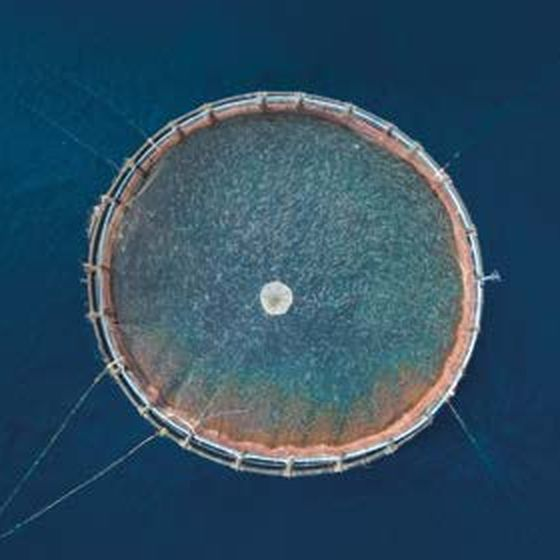
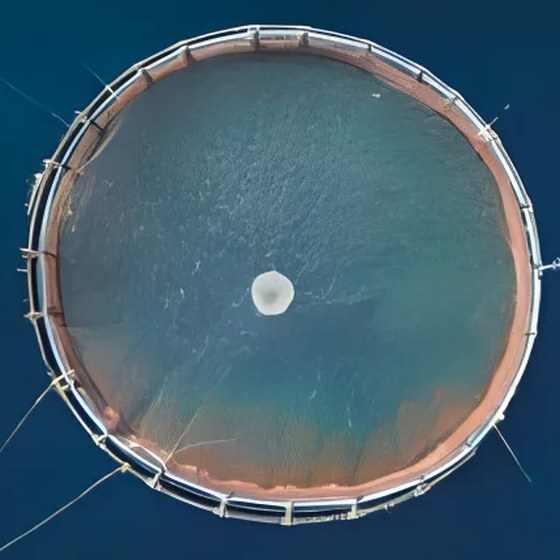
Operations: profile p.6-7 layout — feature timeline, lab photo with script note, deep-blue cycle section
Claude-Session: https://claude.ai/code/session_019i6iV7ZkPJvudKeM1UTkRP

diff --git a/profile-site/operations.html b/profile-site/operations.html
@@ -5,7 +5,7 @@
 <meta name="robots" content="noindex, nofollow">
 <title>Operations — Gulf Aquaculture</title><meta name="description" content="Where innovation meets simplicity: hatchery, nursery, live feed, biosecurity, laboratories and traceability.">
 <link rel="preconnect" href="https://fonts.googleapis.com"><link rel="preconnect" href="https://fonts.gstatic.com" crossorigin><link href="https://fonts.googleapis.com/css2?family=DM+Serif+Display&family=Poppins:wght@300;400;500;600&family=Caveat:wght@500;600&display=swap" rel="stylesheet">
-<link rel="stylesheet" href="assets/css/site.css?v=20261108k">
+<link rel="stylesheet" href="assets/css/site.css?v=20261108l">
 </head>
 <body>
 <header class="hdr"><div class="wrap"><a href="index.html" class="brand" aria-label="Gulf Aquaculture — home"><img src="assets/img/logo.png" alt="Gulf Aquaculture" width="640" height="150"></a>
@@ -15,20 +15,26 @@
 </div></header>
 <nav class="mnav" aria-label="Menu"><button class="x" type="button" aria-label="Close menu">×</button><a href="index.html"><span>00</span>Home</a><a href="about.html"><span>01</span>About</a><a href="operations.html"><span>02</span>Operations</a><a href="assets.html"><span>03</span>Assets</a><a href="species.html"><span>04</span>Species</a><a href="growth.html"><span>05</span>Growth</a><a href="people.html"><span>06</span>People</a><a href="contact.html"><span>07</span>Contact</a></nav>
 <main>
-<section class="opener paper"><span class="arc"></span><div class="wrap">
-  <div class="rv in"><span class="folio"><i></i>Our operations</span><h1>Where Innovation<br>Meets Simplicity</h1><p class="lead">We designed our facilities to do one thing well: raise healthy fish in sustainable, replicable systems.</p></div>
-  <div class="media rv in"><div class="img" style="background-image:url(assets/img/cages.jpg)" role="img" aria-label="Company Profile photo"></div><p class="note"><span>Good water quality isn't an output. It's a daily practice.</span></p></div>
-</div></section><section class="sec"><div class="wrap"><div class="feat rv"><div><svg viewBox="0 0 24 24"><path d="M4 20h16M6 20V9l6-5 6 5v11"/><path d="M9 20v-6h6v6"/></svg><h4>Hatchery &amp; Nursery</h4><p>Controlled environments for larvae and fry.</p></div><div><svg viewBox="0 0 24 24"><circle cx="8" cy="9" r="3"/><circle cx="16" cy="9" r="3"/><circle cx="12" cy="16" r="3"/></svg><h4>Live Feed Systems</h4><p>Rotifers, copepods, algae production.</p></div><div><svg viewBox="0 0 24 24"><path d="M12 3l8 3v6c0 5-3.5 8-8 9-4.5-1-8-4-8-9V6z"/></svg><h4>Biosecurity</h4><p>Closed-loop systems, advanced filtration, and strict protocols.</p></div><div><svg viewBox="0 0 24 24"><path d="M9 3h6M10 3v6l-5 9a2 2 0 0 0 1.7 3h10.6a2 2 0 0 0 1.7-3l-5-9V3"/></svg><h4>Laboratories</h4><p>Water quality and microbiology testing.</p></div><div><svg viewBox="0 0 24 24"><path d="M4 12h4l2-5 4 10 2-5h4"/></svg><h4>Traceability</h4><p>SFS Trace system ensures full lifecycle transparency.</p></div></div></div></section><section class="sec navy" id="cycle"><div class="wrap">
-  <div class="cols" style="margin-bottom:40px"><div class="rv"><span class="label" style="color:var(--amber)">From broodstock to distribution</span><h2 style="margin-top:12px">Every stage reflects a clear purpose — and a shared responsibility to the Gulf.</h2></div>
-  <p class="rv">Select a phase around the cage. Throughout, our laboratory teams track microbial health, monitor water quality, and ensure every fish can be traced from broodstock to harvest.</p></div>
-  <div class="ops"><div class="ring rv" id="ring"></div>
-    <div class="ph-card rv"><div id="phCard" aria-live="polite"></div><div class="ph-nav"><button type="button" id="phPrev" aria-label="Previous phase">←</button><button type="button" id="phNext" aria-label="Next phase">→</button></div></div></div>
+<section class="opx paper"><span class="arc opx-arc" aria-hidden="true"></span><div class="wrap opx-grid">
+ <div class="opx-left">
+  <h1 class="rv in">Where<br>Innovation<br>Meets Simplicity</h1>
+  <p class="opx-kicker rv in">Our operations</p>
+  <p class="lead rv in">We designed our facilities to do one thing well: raise healthy fish in sustainable, replicable systems.</p>
+  <figure class="opx-photo rv"><img src="assets/img/gulf-aquaculture-lab-technician.webp" width="1008" height="676" alt="Laboratory technician testing water samples" loading="lazy">
+   <p class="note opx-note"><span>Good water quality</span><br><span>isn’t an output. It’s a</span><br><span>daily practice.</span></p></figure>
+ </div>
+ <ol class="opx-feat"><li class="rv"><svg viewBox="0 0 24 24" aria-hidden="true"><circle cx="8" cy="15" r="3"/><circle cx="14" cy="15" r="3"/><circle cx="20" cy="15" r="2.6"/><circle cx="11" cy="10" r="3"/><circle cx="17" cy="10" r="3"/><circle cx="14" cy="5.5" r="2.6"/></svg><h3>Hatchery &amp; Nursery:</h3><p>Controlled environments for larvae and fry.</p></li><li class="rv"><svg viewBox="0 0 24 24" aria-hidden="true"><path d="M9 12c3-4 8-5 12-1-4 4-9 3-12 1z"/><path d="M21 11l2-3v7z"/><circle cx="4" cy="10" r="1.3"/><circle cx="6" cy="14" r="1"/><circle cx="3" cy="16" r=".8"/></svg><h3>Live Feed Systems:</h3><p>Rotifers, copepods, algae production.</p></li><li class="rv"><svg viewBox="0 0 24 24" aria-hidden="true"><path d="M12 3l8 3v6c0 5-3.5 8-8 9-4.5-1-8-4-8-9V6z"/></svg><h3>Biosecurity:</h3><p>Closed-loop systems, advanced filtration, and strict protocols.</p></li><li class="rv"><svg viewBox="0 0 24 24" aria-hidden="true"><path d="M9 3h6M10 3v6l-5 9a2 2 0 0 0 1.7 3h10.6a2 2 0 0 0 1.7-3l-5-9V3"/></svg><h3>Laboratories:</h3><p>Water quality and microbiology testing.</p></li><li class="rv"><svg viewBox="0 0 24 24" aria-hidden="true"><path d="M4 12h4l2-5 4 10 2-5h4"/></svg><h3>Traceability:</h3><p>SFS Trace system ensures full lifecycle transparency.</p></li></ol>
 </div></section>
-<section class="sec paper"><div class="wrap cols">
+<section class="opb" id="cycle"><div class="wrap">
+ <div class="opb-text">
   <div class="rv"><p>Each stage of our operation reflects a clear purpose and a shared responsibility to the Gulf. In the hatchery, our teams begin early — checking water parameters, preparing live feed cultures, and monitoring larval development. This work is methodical and essential, creating the foundation for healthy fish and healthy ecosystems.</p>
-  <p>As fry grow, they are transitioned to nursery tanks and eventually to sea cages, where they continue to mature in conditions that mimic their natural habitat. This low-impact approach is not only efficient — it respects the Gulf's unique marine environment by working in harmony with it, rather than forcing artificial outcomes.</p></div>
+   <p>As fry grow, they are transitioned to nursery tanks and eventually to sea cages, where they continue to mature in conditions that mimic their natural habitat. This low-impact approach is not only efficient — it respects the Gulf’s unique marine environment by working in harmony with it, rather than forcing artificial outcomes.</p></div>
   <div class="rv"><p>Behind the scenes, our laboratory teams track microbial health, monitor water quality, and ensure every fish can be traced from broodstock to harvest. Our systems reduce energy usage, recycle water, and eliminate the need for unnecessary antibiotics. Every step is intentional, designed to reduce stress on fish — and on the environment.</p>
-  <p class="note" style="margin-top:30px"><span>Our systems are modular and repeatable — ready to be replicated across future sites.</span></p></div>
+   <p class="note opb-note"><span>Our systems are modular and</span><br><span>repeatable — ready to be replicated</span><br><span>across future sites.</span></p></div>
+ </div>
+ <div class="opb-cycle"><p class="opb-hint rv">Select a phase around the cage — from broodstock to distribution, under continuous lab oversight.</p>
+  <div class="ops"><div class="ring rv" id="ring"></div>
+   <div class="ph-card rv"><div id="phCard" aria-live="polite"></div><div class="ph-nav"><button type="button" id="phPrev" aria-label="Previous phase">←</button><button type="button" id="phNext" aria-label="Next phase">→</button></div></div></div></div>
 </div></section>
 </main>
 
@@ -44,6 +50,6 @@
   </div>
   <div class="bot"><span>© 2026 Gulf Aquaculture</span><span>Concept website built from the GA Company Profile · demo by Kriswa International — not the official site</span></div>
 </div></footer>
-<script src="assets/js/site.js?v=20261108k"></script>
+<script src="assets/js/site.js?v=20261108l"></script>
 </body>
 </html>

diff --git a/profile-site-source/site.css b/profile-site-source/site.css
@@ -649,3 +649,38 @@ strong{font-weight:500;color:var(--ink)}
 .fx-plan:hover .fx-zoom,.fx-plan:focus-visible .fx-zoom{opacity:1}
 @media (max-width:1000px){.fx-cols{grid-template-columns:1fr 1fr}}
 @media (max-width:760px){.fa-grid,.fx-band-grid,.fx-cols{grid-template-columns:1fr}.fx-zoom{opacity:1}}
+/* ---------- Operations (profile p.6-7) ---------- */
+.opx{position:relative;overflow:hidden;padding:clamp(56px,7vw,110px) 0}
+.opx-arc{width:900px;height:900px;left:-420px;bottom:-640px}
+.opx-grid{display:grid;grid-template-columns:1.05fr 1fr;gap:clamp(40px,6vw,100px);align-items:start;position:relative}
+.opx h1{font-size:clamp(2.4rem,4.6vw,3.9rem);line-height:1.04}
+.opx-kicker{margin:26px 0 22px;font-weight:500;font-size:clamp(1rem,1.4vw,1.2rem);letter-spacing:.12em;text-transform:uppercase;background:var(--grad);-webkit-background-clip:text;background-clip:text;color:transparent}
+.opx .lead{max-width:24ch;font-size:clamp(1.2rem,1.8vw,1.6rem);line-height:1.45}
+.opx-photo{position:relative;margin:clamp(60px,8vw,110px) 0 0;max-width:520px}
+.opx-photo img{display:block;width:100%;height:auto}
+.opx-note{position:absolute;right:-6%;top:-14%;font-size:clamp(1.15rem,1.7vw,1.5rem)}
+.opx-feat{list-style:none;position:relative;padding:20px 0 20px 46px;margin:0}
+.opx-feat::before{content:"";position:absolute;left:12px;top:0;bottom:0;width:1.5px;background:var(--orange);opacity:.75}
+.opx-feat li{position:relative;padding:clamp(18px,3vw,38px) 0}
+.opx-feat li::before{content:"";position:absolute;left:-41px;top:calc(clamp(18px,3vw,38px) + 58px);width:14px;height:14px;background:var(--teal);transform:rotate(45deg);transition:transform .4s var(--ease)}
+.opx-feat li::after{content:"";position:absolute;left:-37px;top:calc(clamp(18px,3vw,38px) + 38px);width:6px;height:56px;background:linear-gradient(var(--amber),var(--amber)) top/6px 6px no-repeat,linear-gradient(var(--amber),var(--amber)) bottom/6px 6px no-repeat;transform:none;opacity:.8}
+.opx-feat li:hover::before{transform:rotate(225deg) scale(1.15)}
+.opx-feat svg{width:40px;height:40px;fill:none;stroke:var(--orange);stroke-width:1.1;stroke-linecap:round;stroke-linejoin:round;margin-bottom:10px;transition:transform .4s var(--ease)}
+.opx-feat li:hover svg{transform:translateY(-4px)}
+.opx-feat h3{font-family:var(--sans);font-weight:600;font-size:1.05rem;color:var(--orange);margin-bottom:4px}
+.opx-feat p{max-width:30ch}
+.opb{position:relative;color:#fff;padding:clamp(60px,7vw,110px) 0;background:radial-gradient(ellipse at 70% 80%,rgba(20,90,120,.55),transparent 60%),linear-gradient(180deg,#0E2F4F 0%,#0F3556 45%,#0B2742 100%);overflow:hidden}
+.opb::before{content:"";position:absolute;inset:0;background:radial-gradient(ellipse at 20% 10%,rgba(226,161,60,.08),transparent 45%)}
+.opb .wrap{position:relative}
+.opb-text{display:grid;grid-template-columns:1fr 1fr;gap:clamp(30px,5vw,70px);margin-bottom:clamp(40px,6vw,80px)}
+.opb-text p{color:rgba(255,255,255,.88);margin-bottom:18px;line-height:1.7}
+.opb-note{margin-top:30px;text-align:right;font-size:clamp(1.2rem,1.8vw,1.55rem)}
+.opb-hint{color:rgba(255,255,255,.7);font-size:.9rem;margin-bottom:20px}
+.opb .ring .ph .icobg{fill:#0F3556}
+.opb .ring .ph .t{fill:var(--amber)}
+.opb .ph-card{background:rgba(9,30,52,.55);border:1px solid rgba(226,161,60,.35);padding:clamp(22px,3vw,34px);backdrop-filter:blur(4px)}
+.opb .ph-card p,.opb .ph-card li{color:rgba(255,255,255,.88)}
+.opb .ph-card .diamonds li{border-bottom-color:rgba(255,255,255,.14)}
+@media (max-width:1000px){.opx-grid{grid-template-columns:1fr}.opx-photo{max-width:560px}.opx-note{right:0}.opx-feat{display:grid;grid-template-columns:1fr 1fr;column-gap:30px}.opx-feat::before{display:none}.opx-feat li::before,.opx-feat li::after{display:none}.opx-feat{padding-left:0}}
+@media (max-width:760px){.opb-text{grid-template-columns:1fr}.opb-note{text-align:left}}
+@media (max-width:600px){.opx-feat{grid-template-columns:1fr}.opx-note{position:static;margin-top:14px}.opx-photo{margin-top:40px}}

diff --git a/profile-site/assets/css/site.css b/profile-site/assets/css/site.css
@@ -649,3 +649,38 @@ strong{font-weight:500;color:var(--ink)}
 .fx-plan:hover .fx-zoom,.fx-plan:focus-visible .fx-zoom{opacity:1}
 @media (max-width:1000px){.fx-cols{grid-template-columns:1fr 1fr}}
 @media (max-width:760px){.fa-grid,.fx-band-grid,.fx-cols{grid-template-columns:1fr}.fx-zoom{opacity:1}}
+/* ---------- Operations (profile p.6-7) ---------- */
+.opx{position:relative;overflow:hidden;padding:clamp(56px,7vw,110px) 0}
+.opx-arc{width:900px;height:900px;left:-420px;bottom:-640px}
+.opx-grid{display:grid;grid-template-columns:1.05fr 1fr;gap:clamp(40px,6vw,100px);align-items:start;position:relative}
+.opx h1{font-size:clamp(2.4rem,4.6vw,3.9rem);line-height:1.04}
+.opx-kicker{margin:26px 0 22px;font-weight:500;font-size:clamp(1rem,1.4vw,1.2rem);letter-spacing:.12em;text-transform:uppercase;background:var(--grad);-webkit-background-clip:text;background-clip:text;color:transparent}
+.opx .lead{max-width:24ch;font-size:clamp(1.2rem,1.8vw,1.6rem);line-height:1.45}
+.opx-photo{position:relative;margin:clamp(60px,8vw,110px) 0 0;max-width:520px}
+.opx-photo img{display:block;width:100%;height:auto}
+.opx-note{position:absolute;right:-6%;top:-14%;font-size:clamp(1.15rem,1.7vw,1.5rem)}
+.opx-feat{list-style:none;position:relative;padding:20px 0 20px 46px;margin:0}
+.opx-feat::before{content:"";position:absolute;left:12px;top:0;bottom:0;width:1.5px;background:var(--orange);opacity:.75}
+.opx-feat li{position:relative;padding:clamp(18px,3vw,38px) 0}
+.opx-feat li::before{content:"";position:absolute;left:-41px;top:calc(clamp(18px,3vw,38px) + 58px);width:14px;height:14px;background:var(--teal);transform:rotate(45deg);transition:transform .4s var(--ease)}
+.opx-feat li::after{content:"";position:absolute;left:-37px;top:calc(clamp(18px,3vw,38px) + 38px);width:6px;height:56px;background:linear-gradient(var(--amber),var(--amber)) top/6px 6px no-repeat,linear-gradient(var(--amber),var(--amber)) bottom/6px 6px no-repeat;transform:none;opacity:.8}
+.opx-feat li:hover::before{transform:rotate(225deg) scale(1.15)}
+.opx-feat svg{width:40px;height:40px;fill:none;stroke:var(--orange);stroke-width:1.1;stroke-linecap:round;stroke-linejoin:round;margin-bottom:10px;transition:transform .4s var(--ease)}
+.opx-feat li:hover svg{transform:translateY(-4px)}
+.opx-feat h3{font-family:var(--sans);font-weight:600;font-size:1.05rem;color:var(--orange);margin-bottom:4px}
+.opx-feat p{max-width:30ch}
+.opb{position:relative;color:#fff;padding:clamp(60px,7vw,110px) 0;background:radial-gradient(ellipse at 70% 80%,rgba(20,90,120,.55),transparent 60%),linear-gradient(180deg,#0E2F4F 0%,#0F3556 45%,#0B2742 100%);overflow:hidden}
+.opb::before{content:"";position:absolute;inset:0;background:radial-gradient(ellipse at 20% 10%,rgba(226,161,60,.08),transparent 45%)}
+.opb .wrap{position:relative}
+.opb-text{display:grid;grid-template-columns:1fr 1fr;gap:clamp(30px,5vw,70px);margin-bottom:clamp(40px,6vw,80px)}
+.opb-text p{color:rgba(255,255,255,.88);margin-bottom:18px;line-height:1.7}
+.opb-note{margin-top:30px;text-align:right;font-size:clamp(1.2rem,1.8vw,1.55rem)}
+.opb-hint{color:rgba(255,255,255,.7);font-size:.9rem;margin-bottom:20px}
+.opb .ring .ph .icobg{fill:#0F3556}
+.opb .ring .ph .t{fill:var(--amber)}
+.opb .ph-card{background:rgba(9,30,52,.55);border:1px solid rgba(226,161,60,.35);padding:clamp(22px,3vw,34px);backdrop-filter:blur(4px)}
+.opb .ph-card p,.opb .ph-card li{color:rgba(255,255,255,.88)}
+.opb .ph-card .diamonds li{border-bottom-color:rgba(255,255,255,.14)}
+@media (max-width:1000px){.opx-grid{grid-template-columns:1fr}.opx-photo{max-width:560px}.opx-note{right:0}.opx-feat{display:grid;grid-template-columns:1fr 1fr;column-gap:30px}.opx-feat::before{display:none}.opx-feat li::before,.opx-feat li::after{display:none}.opx-feat{padding-left:0}}
+@media (max-width:760px){.opb-text{grid-template-columns:1fr}.opb-note{text-align:left}}
+@media (max-width:600px){.opx-feat{grid-template-columns:1fr}.opx-note{position:static;margin-top:14px}.opx-photo{margin-top:40px}}

diff --git a/profile-site/index.html b/profile-site/index.html
@@ -5,7 +5,7 @@
 <meta name="robots" content="noindex, nofollow">
 <title>Gulf Aquaculture — Transforming Aquaculture in the Middle East</title><meta name="description" content="Gulf Aquaculture: local species in local waters — hatcheries, research and sea-cage farming in the UAE.">
 <link rel="preconnect" href="https://fonts.googleapis.com"><link rel="preconnect" href="https://fonts.gstatic.com" crossorigin><link href="https://fonts.googleapis.com/css2?family=DM+Serif+Display&family=Poppins:wght@300;400;500;600&family=Caveat:wght@500;600&display=swap" rel="stylesheet">
-<link rel="stylesheet" href="assets/css/site.css?v=20261108k">
+<link rel="stylesheet" href="assets/css/site.css?v=20261108l">
 </head>
 <body>
 <header class="hdr"><div class="wrap"><a href="index.html" class="brand" aria-label="Gulf Aquaculture — home"><img src="assets/img/logo.png" alt="Gulf Aquaculture" width="640" height="150"></a>
@@ -97,6 +97,6 @@
   </div>
   <div class="bot"><span>© 2026 Gulf Aquaculture</span><span>Concept website built from the GA Company Profile · demo by Kriswa International — not the official site</span></div>
 </div></footer>
-<script src="assets/js/site.js?v=20261108k"></script>
+<script src="assets/js/site.js?v=20261108l"></script>
 </body>
 </html>

diff --git a/profile-site/asset-skmrc.html b/profile-site/asset-skmrc.html
@@ -5,7 +5,7 @@
 <meta name="robots" content="noindex, nofollow">
 <title>Sheikh Khalifa Marine Research Centre — Gulf Aquaculture</title><meta name="description" content="Sheikh Khalifa Marine Research Centre: hatchery infrastructure, feed systems, laboratories and site plan.">
 <link rel="preconnect" href="https://fonts.googleapis.com"><link rel="preconnect" href="https://fonts.gstatic.com" crossorigin><link href="https://fonts.googleapis.com/css2?family=DM+Serif+Display&family=Poppins:wght@300;400;500;600&family=Caveat:wght@500;600&display=swap" rel="stylesheet">
-<link rel="stylesheet" href="assets/css/site.css?v=20261108k">
+<link rel="stylesheet" href="assets/css/site.css?v=20261108l">
 </head>
 <body>
 <header class="hdr"><div class="wrap"><a href="index.html" class="brand" aria-label="Gulf Aquaculture — home"><img src="assets/img/logo.png" alt="Gulf Aquaculture" width="640" height="150"></a>
@@ -44,6 +44,6 @@
   </div>
   <div class="bot"><span>© 2026 Gulf Aquaculture</span><span>Concept website built from the GA Company Profile · demo by Kriswa International — not the official site</span></div>
 </div></footer>
-<script src="assets/js/site.js?v=20261108k"></script>
+<script src="assets/js/site.js?v=20261108l"></script>
 </body>
 </html>

diff --git a/profile-site/species-hamour.html b/profile-site/species-hamour.html
@@ -5,7 +5,7 @@
 <meta name="robots" content="noindex, nofollow">
 <title>Hamour (Orange-spotted Grouper) — Gulf Aquaculture</title><meta name="description" content="Orange-spotted Grouper: biology, farming characteristics and fry availability at Gulf Aquaculture.">
 <link rel="preconnect" href="https://fonts.googleapis.com"><link rel="preconnect" href="https://fonts.gstatic.com" crossorigin><link href="https://fonts.googleapis.com/css2?family=DM+Serif+Display&family=Poppins:wght@300;400;500;600&family=Caveat:wght@500;600&display=swap" rel="stylesheet">
-<link rel="stylesheet" href="assets/css/site.css?v=20261108k">
+<link rel="stylesheet" href="assets/css/site.css?v=20261108l">
 </head>
 <body>
 <header class="hdr"><div class="wrap"><a href="index.html" class="brand" aria-label="Gulf Aquaculture — home"><img src="assets/img/logo.png" alt="Gulf Aquaculture" width="640" height="150"></a>
@@ -54,6 +54,6 @@
   </div>
   <div class="bot"><span>© 2026 Gulf Aquaculture</span><span>Concept website built from the GA Company Profile · demo by Kriswa International — not the official site</span></div>
 </div></footer>
-<script src="assets/js/site.js?v=20261108k"></script>
+<script src="assets/js/site.js?v=20261108l"></script>
 </body>
 </html>

diff --git a/profile-site/species-shiqra.html b/profile-site/species-shiqra.html
@@ -5,7 +5,7 @@
 <meta name="robots" content="noindex, nofollow">
 <title>Shiqra (Mangrove Red Snapper) — Gulf Aquaculture</title><meta name="description" content="Mangrove Red Snapper: biology, farming characteristics and fry availability at Gulf Aquaculture.">
 <link rel="preconnect" href="https://fonts.googleapis.com"><link rel="preconnect" href="https://fonts.gstatic.com" crossorigin><link href="https://fonts.googleapis.com/css2?family=DM+Serif+Display&family=Poppins:wght@300;400;500;600&family=Caveat:wght@500;600&display=swap" rel="stylesheet">
-<link rel="stylesheet" href="assets/css/site.css?v=20261108k">
+<link rel="stylesheet" href="assets/css/site.css?v=20261108l">
 </head>
 <body>
 <header class="hdr"><div class="wrap"><a href="index.html" class="brand" aria-label="Gulf Aquaculture — home"><img src="assets/img/logo.png" alt="Gulf Aquaculture" width="640" height="150"></a>
@@ -54,6 +54,6 @@
   </div>
   <div class="bot"><span>© 2026 Gulf Aquaculture</span><span>Concept website built from the GA Company Profile · demo by Kriswa International — not the official site</span></div>
 </div></footer>
-<script src="assets/js/site.js?v=20261108k"></script>
+<script src="assets/js/site.js?v=20261108l"></script>
 </body>
 </html>

diff --git a/profile-site/species-hamra.html b/profile-site/species-hamra.html
@@ -5,7 +5,7 @@
 <meta name="robots" content="noindex, nofollow">
 <title>Hamra (Malabar Red Snapper) — Gulf Aquaculture</title><meta name="description" content="Malabar Red Snapper: biology, farming characteristics and fry availability at Gulf Aquaculture.">
 <link rel="preconnect" href="https://fonts.googleapis.com"><link rel="preconnect" href="https://fonts.gstatic.com" crossorigin><link href="https://fonts.googleapis.com/css2?family=DM+Serif+Display&family=Poppins:wght@300;400;500;600&family=Caveat:wght@500;600&display=swap" rel="stylesheet">
-<link rel="stylesheet" href="assets/css/site.css?v=20261108k">
+<link rel="stylesheet" href="assets/css/site.css?v=20261108l">
 </head>
 <body>
 <header class="hdr"><div class="wrap"><a href="index.html" class="brand" aria-label="Gulf Aquaculture — home"><img src="assets/img/logo.png" alt="Gulf Aquaculture" width="640" height="150"></a>
@@ -54,6 +54,6 @@
   </div>
   <div class="bot"><span>© 2026 Gulf Aquaculture</span><span>Concept website built from the GA Company Profile · demo by Kriswa International — not the official site</span></div>
 </div></footer>
-<script src="assets/js/site.js?v=20261108k"></script>
+<script src="assets/js/site.js?v=20261108l"></script>
 </body>
 </html>

diff --git a/profile-site/species-seabream.html b/profile-site/species-seabream.html
@@ -5,7 +5,7 @@
 <meta name="robots" content="noindex, nofollow">
 <title>Seabream (Sobaity Seabream) — Gulf Aquaculture</title><meta name="description" content="Sobaity Seabream: biology, farming characteristics and fry availability at Gulf Aquaculture.">
 <link rel="preconnect" href="https://fonts.googleapis.com"><link rel="preconnect" href="https://fonts.gstatic.com" crossorigin><link href="https://fonts.googleapis.com/css2?family=DM+Serif+Display&family=Poppins:wght@300;400;500;600&family=Caveat:wght@500;600&display=swap" rel="stylesheet">
-<link rel="stylesheet" href="assets/css/site.css?v=20261108k">
+<link rel="stylesheet" href="assets/css/site.css?v=20261108l">
 </head>
 <body>
 <header class="hdr"><div class="wrap"><a href="index.html" class="brand" aria-label="Gulf Aquaculture — home"><img src="assets/img/logo.png" alt="Gulf Aquaculture" width="640" height="150"></a>
@@ -54,6 +54,6 @@
   </div>
   <div class="bot"><span>© 2026 Gulf Aquaculture</span><span>Concept website built from the GA Company Profile · demo by Kriswa International — not the official site</span></div>
 </div></footer>
-<script src="assets/js/site.js?v=20261108k"></script>
+<script src="assets/js/site.js?v=20261108l"></script>
 </body>
 </html>

diff --git a/profile-site/species-shaari.html b/profile-site/species-shaari.html
@@ -5,7 +5,7 @@
 <meta name="robots" content="noindex, nofollow">
 <title>Shaari (Spangled Emperor) — Gulf Aquaculture</title><meta name="description" content="Spangled Emperor: biology, farming characteristics and fry availability at Gulf Aquaculture.">
 <link rel="preconnect" href="https://fonts.googleapis.com"><link rel="preconnect" href="https://fonts.gstatic.com" crossorigin><link href="https://fonts.googleapis.com/css2?family=DM+Serif+Display&family=Poppins:wght@300;400;500;600&family=Caveat:wght@500;600&display=swap" rel="stylesheet">
-<link rel="stylesheet" href="assets/css/site.css?v=20261108k">
+<link rel="stylesheet" href="assets/css/site.css?v=20261108l">
 </head>
 <body>
 <header class="hdr"><div class="wrap"><a href="index.html" class="brand" aria-label="Gulf Aquaculture — home"><img src="assets/img/logo.png" alt="Gulf Aquaculture" width="640" height="150"></a>
@@ -54,6 +54,6 @@
   </div>
   <div class="bot"><span>© 2026 Gulf Aquaculture</span><span>Concept website built from the GA Company Profile · demo by Kriswa International — not the official site</span></div>
 </div></footer>
-<script src="assets/js/site.js?v=20261108k"></script>
+<script src="assets/js/site.js?v=20261108l"></script>
 </body>
 </html>

diff --git a/profile-site/species-umm-drais.html b/profile-site/species-umm-drais.html
@@ -5,7 +5,7 @@
 <meta name="robots" content="noindex, nofollow">
 <title>Umm Drais (Red snapper) — Gulf Aquaculture</title><meta name="description" content="Red snapper: biology, farming characteristics and fry availability at Gulf Aquaculture.">
 <link rel="preconnect" href="https://fonts.googleapis.com"><link rel="preconnect" href="https://fonts.gstatic.com" crossorigin><link href="https://fonts.googleapis.com/css2?family=DM+Serif+Display&family=Poppins:wght@300;400;500;600&family=Caveat:wght@500;600&display=swap" rel="stylesheet">
-<link rel="stylesheet" href="assets/css/site.css?v=20261108k">
+<link rel="stylesheet" href="assets/css/site.css?v=20261108l">
 </head>
 <body>
 <header class="hdr"><div class="wrap"><a href="index.html" class="brand" aria-label="Gulf Aquaculture — home"><img src="assets/img/logo.png" alt="Gulf Aquaculture" width="640" height="150"></a>
@@ -54,6 +54,6 @@
   </div>
   <div class="bot"><span>© 2026 Gulf Aquaculture</span><span>Concept website built from the GA Company Profile · demo by Kriswa International — not the official site</span></div>
 </div></footer>
-<script src="assets/js/site.js?v=20261108k"></script>
+<script src="assets/js/site.js?v=20261108l"></script>
 </body>
 </html>

diff --git a/profile-site/asset-balghailam.html b/profile-site/asset-balghailam.html
@@ -5,7 +5,7 @@
 <meta name="robots" content="noindex, nofollow">
 <title>Balghailam Island — Gulf Aquaculture</title><meta name="description" content="Balghailam Island: hatchery infrastructure, feed systems, laboratories and site plan.">
 <link rel="preconnect" href="https://fonts.googleapis.com"><link rel="preconnect" href="https://fonts.gstatic.com" crossorigin><link href="https://fonts.googleapis.com/css2?family=DM+Serif+Display&family=Poppins:wght@300;400;500;600&family=Caveat:wght@500;600&display=swap" rel="stylesheet">
-<link rel="stylesheet" href="assets/css/site.css?v=20261108k">
+<link rel="stylesheet" href="assets/css/site.css?v=20261108l">
 </head>
 <body>
 <header class="hdr"><div class="wrap"><a href="index.html" class="brand" aria-label="Gulf Aquaculture — home"><img src="assets/img/logo.png" alt="Gulf Aquaculture" width="640" height="150"></a>
@@ -44,6 +44,6 @@
   </div>
   <div class="bot"><span>© 2026 Gulf Aquaculture</span><span>Concept website built from the GA Company Profile · demo by Kriswa International — not the official site</span></div>
 </div></footer>
-<script src="assets/js/site.js?v=20261108k"></script>
+<script src="assets/js/site.js?v=20261108l"></script>
 </body>
 </html>
